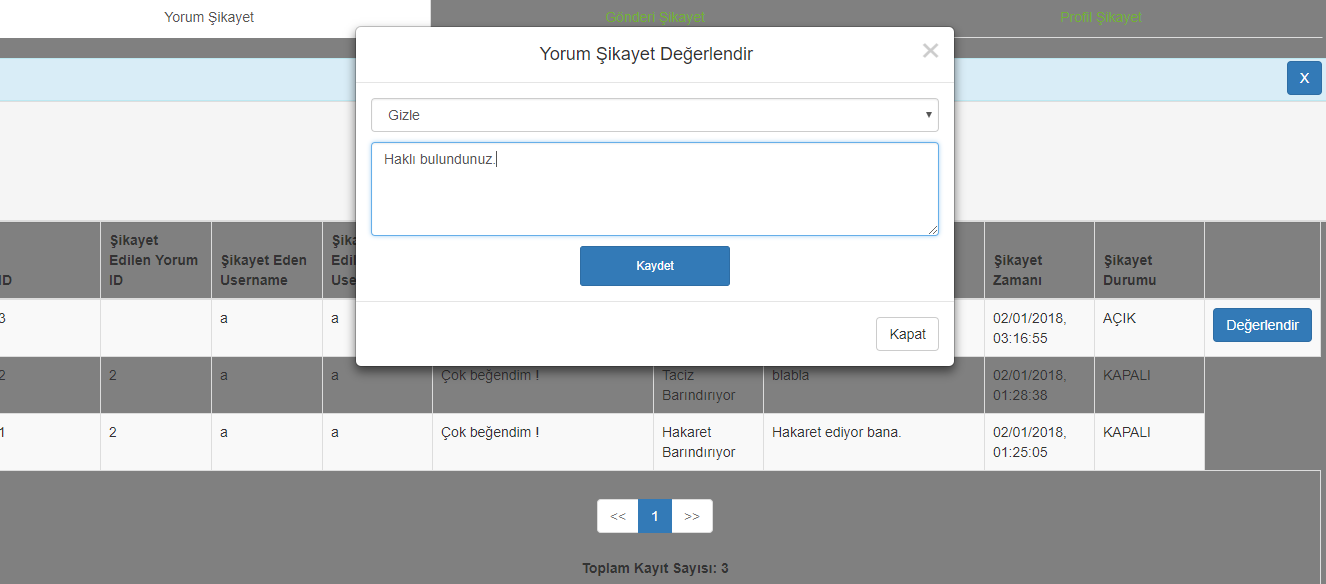
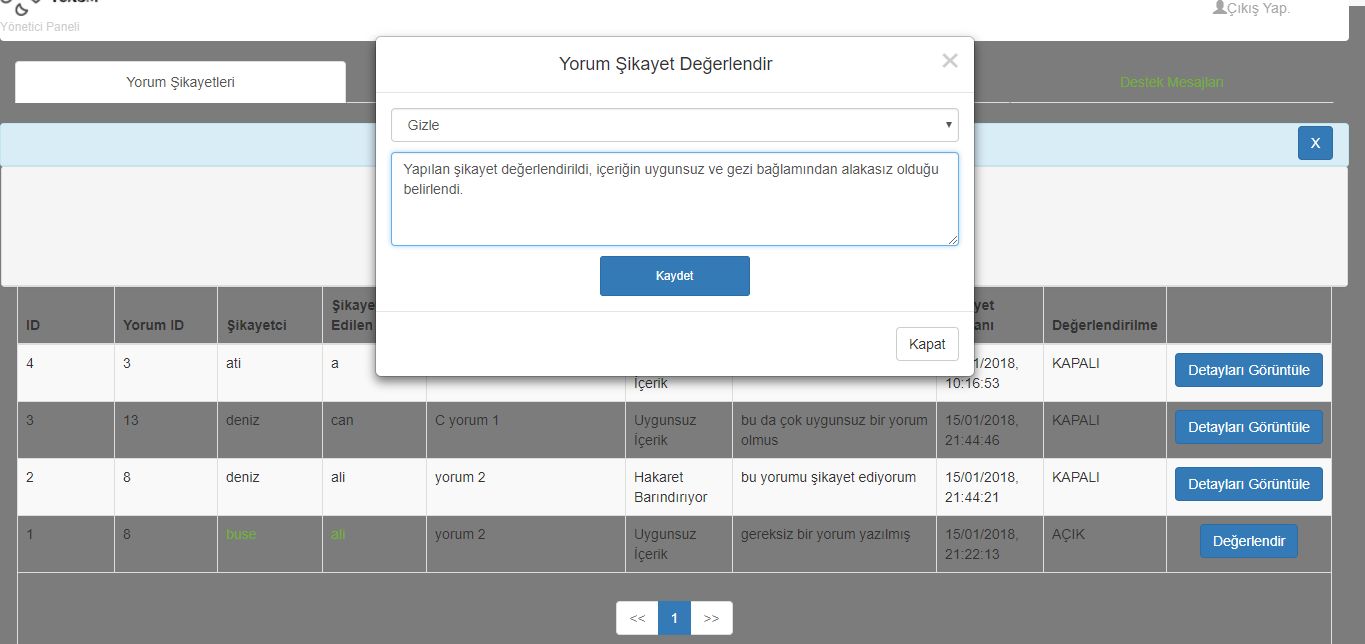
son degisiklikler yapildi

diff --git a/projectChapters/1-chapter.tex b/projectChapters/1-chapter.tex
@@ -1,5 +1,5 @@
 \chapter{Introduction}
-On this project our purpose is to save navigation data (latitude, longitude, altitude, accuracy, speed) collected from GPS of mobile device and show the route of a trip on the map. There will be a mobile application and server side application to provide some features, lets users to share trips, review trips, communicate and socialize with each others. Various media records such as photos, videos and sound recorded from mobile device during the trip will be associated with the route. There will be a team trip option for the trips which includes more than one member. Team trip option lets every team member to see any other team member's location simultaneously if there is an Internet connection. In order to determine travelling method, using the temporal changes of the navigation data taken from the GPS, average and instant speed will be calculated. As result, trip type will be labelled as vehicle trip, walking trip, running trip or cycling trip using calculated speed data. In order to provide interaction between users a social media environment will be designed. People will be able to establish their friendship here. In the news flow, there will be a timeline section. Posts which are shared by friends of users will be shown there. The trips can be liked by other users in the news flow, they can leave a comment on trip or the users can follow trips they like by downloading it on their own mobile device.
+On this project our purpose is to save navigation data (latitude, longitude, altitude, accuracy, speed) collected from GPS of mobile device and show the route of a trip on the map. There will be a mobile application and server side application to provide some features, lets users to share trips, review trips, communicate and socialize with each others. Various media records such as photos, videos and sound recorded from mobile device during the trip will be associated with the route. There will be a team trip option for the trips which includes more than one member. Team trip option lets every team member to see any other team member's location simultaneously if there is an Internet connection. In order to determine travelling method, using the temporal changes of the navigation data taken from the GPS, average and instant speed will be calculated. As result, trip type will be labelled as vehicle trip, walking trip, running trip or cycling trip using calculated speed data. In order to provide interaction between users a social media environment will be designed. People will be able to establish their friendship here. In the news flow, there will be a timeline section. Posts which are shared by friends of users will be shown there. The trips can be liked by other users in the news flow, they can leave a comment on trip or the users can follow trips they like by downloading it on their own mobile device. Users can create complaints about comments, other user profiles and trips. Complaints are evaluated by the system administrators. If admins think that regarding complaint are right, the content can be hidden.
 \section{Literature Review}
 The purpose to realize that project is to simplify planning, recording and sharing traveler's trips. We know that it is not easy to organize photos and media taken on a trip and later on sharing them on any social media or personal blogs. In any marketplaces including play store and appstore there are lots of applications for tracking and planning travel but most of them only saves location data and do not include media or user notes. There are only a few remarkable application which saves location data, media and also provides a social media enviroment. However there is no application that provides trip tracking, organizing media, following other person's route, sharing memories and also doing all of these with friends at the same time. 
 

diff --git a/projectChapters/7-chapter.tex b/projectChapters/7-chapter.tex
@@ -30,89 +30,28 @@ Server's idle performance is shown in Figure
 \label{fig:serveridle}
 \end{figure}
 
-\newpage
-
-When server's performance 30 simultaneous GET call is shown Figure
-\ref{fig:30users}.
-
-\begin{figure}[!htbp]
-\centering
-\includegraphics[width=\textwidth]{projectChapters/images/30users1.png}
-\caption{Server 30 GET HTTP calls simultaneously}
-\label{fig:30users}
-\end{figure}
-
-\begin{figure}[!htbp]
-\centering
-\includegraphics[width=\textwidth]{projectChapters/images/30users2.png}
-\caption{Server 30 GET HTTP calls simultaneously}
-\label{fig:30users}
-\end{figure}
-
-\newpage
-
-When server's performance 100 simultaneous GET call is shown Figure
-\ref{fig:100users}.
-
-\begin{figure}[!htbp]
-\centering
-\includegraphics[width=\textwidth]{projectChapters/images/100users1.png}
-\caption{Server 100 GET HTTP calls simultaneously}
-\label{fig:100users}
-\end{figure}
-
-\begin{figure}[!htbp]
-\centering
-\includegraphics[width=\textwidth]{projectChapters/images/100users2.png}
-\caption{Server 100 GET HTTP calls simultaneously}
-\label{fig:100users}
-\end{figure}
-
-\newpage
-
-When server's performance 130 simultaneous GET and POST call is shown Figure
-\ref{fig:130users}.
-
-\begin{figure}[!htbp]
-\centering
-\includegraphics[width=\textwidth]{projectChapters/images/130users1.png}
-\caption{Server 130 GET and POST HTTP calls simultaneously}
-\label{fig:130users}
-\end{figure}
-
-\begin{figure}[!htbp]
-\centering
-\includegraphics[width=\textwidth]{projectChapters/images/130users2.png}
-\caption{Server 130 GET and POST HTTP calls simultaneously}
-\label{fig:130users}
-\end{figure}
-
-\newpage
-
-
-When server's performance 180 simultaneous GET and two POST call is shown Figure
-\ref{fig:180user}.
-
-\begin{figure}[!htbp]
-\centering
-\includegraphics[width=\textwidth]{projectChapters/images/180users1.png}
-\caption{Server 180 GET and two POST HTTP calls simultaneously}
-\label{fig:180user}
-\end{figure}
-
-\begin{figure}[!htbp]
-\centering
-\includegraphics[width=\textwidth]{projectChapters/images/180users2.png}
-\caption{Server 180 GET and two POST HTTP calls simultaneously}
-\label{fig:180user}
-\end{figure}
-
-
-\newpage
- 
 \subsection{Result}
 
-As we seen the results above, the server can handle up to 200 simultaneously HTTP calls, its bottleneck is its CPU power, because maximum RAM usage 20 percent even the highest limit of calls. If we assume that average HTTP calls per web page is 20, (the number can vary depending upon the demand of the user) as a result, if server can handle 200 simultaneous calls and user makes 20 calls per page we can say the average number of users that our server can handle is 10.
+
+
+
+As we seen the results below, the server can handle up to 200 simultaneously HTTP calls, its bottleneck is its CPU power, because maximum RAM usage 20 percent even the highest limit of calls. If we assume that average HTTP calls per web page is 20, (the number can vary depending upon the demand of the user) as a result, if server can handle 200 simultaneous calls and user makes 20 calls per page we can say the average number of users that our server can handle is 10.
+
+\begin{table}[!ht]
+\centering
+\caption{Server performance test results}
+\label{my-label}
+\begin{tabular}{|l|l|l|}
+\hline
+\textbf{HTTP Calls}                & \textbf{Maximum Memory Usage(\%)} & \textbf{Maximum CPU Usage(\%)} \\ \hline
+30 GET Requests           & 15.2                     & 18.1  \\ \hline
+100 GET Requests          & 15.2                     & 56.6  \\ \hline
+130 GET and POST Requests & 15                       & 68.8  \\ \hline
+180 GET and POST Requests & 15                       & 89.4  \\ \hline
+\end{tabular}
+\end{table}
+
+\newpage
 
 Comparison between HTTP calls and the result outputs of error rate, throughput, Received KB/sec, Sent KB/sec, Avg Bytes are shown in Figure
 

diff --git a/projectChapters/6-chapter.tex b/projectChapters/6-chapter.tex
@@ -24,7 +24,7 @@ Users can register from register page by typing their personal information. It i
 \label{fig:registerWeb}
 \end{figure}
 
-Users can validate their account by redirecting the address that has been sent to them via our SMTP. It is shown in figure  \ref{fig:registerWeb}. 
+Users must validate their account by redirecting the address that has been sent to them which provided by e-mail. It is shown in figure  \ref{fig:registerWeb}. 
 
 \begin{figure}[!htbp]
 \centering
@@ -44,13 +44,13 @@ Users can change their account's password by clicking on the forgot password sec
 \label{fig:registerWeb}
 \end{figure}
 
-Users can access to the developers by using support page, and can read the privacy principles for the permission they are going to give site owners about their usage. It is shown in figure  \ref{fig:supportWeb}. 
+Users can read the privacy principles for the permission they are going to give site owners about their usage. It is shown in figure  \ref{fig:privacyWeb}. 
 
 \begin{figure}[!htbp]
 \centering
-\includegraphics[width=\textwidth]{projectChapters/images/supportPage.png}
-\caption{Support screen for users}
-\label{fig:supportWeb}
+\includegraphics[width=\textwidth]{projectChapters/images/privacyPage.png}
+\caption{Privacy information screen for users}
+\label{fig:privacyWeb}
 \end{figure}
 
 \newpage
@@ -150,12 +150,12 @@ Users can search trips, users from the search page they can also filter the sear
 
 \newpage
 
-We have administrators management page. In this page administrators can see complaints related with users, trips and comments that are created by users. They can see, search, evaluate and list them with this screen which is shown in Figure \ref{fig:admin1}.
+We have administrators management page. In this page administrators can see complaints related with users, trips and comments that are created by users. They can see, search, evaluate and list them with this screen which is shown in Figure \ref{fig:admin0}.
 \begin{figure}[!htbp]
 \centering
-\includegraphics[width=\textwidth]{projectChapters/images/admin1.png}
+\includegraphics[width=\textwidth]{projectChapters/images/admin0.png}
 \caption{Administrator page}
-\label{fig:admin1}
+\label{fig:admin0}
 \end{figure}
 
 Administrators can decide whether the content is going to be hidden or not, we have a screen to decide hide the content or not, which is shown in Figure  \ref{fig:admin2}.

diff --git a/projectChapters/3-chapter.tex b/projectChapters/3-chapter.tex
@@ -138,11 +138,11 @@ Minimum System Configuration & \hfill 1.6 & \hfill 5632 & \hfill 17.5 \\ \hline
 Linux OS \cite{linuxMinimumSystemRequirements} & \hfill 1 & \hfill 512 & \hfill 8 \\ \hline
 Eclipse \cite{eclipse} & \hfill 1.5 & \hfill 1024  & \hfill 1  \\ \hline
 MySQL \cite{mysql} & \hfill 1 (2 core) & \hfill 2048 & \hfill 0.8 \\ \hline
-MySQL Workbench\cite{mysql} & \hfill unknown & \hfill 4096 & \hfill 0.2 \\ \hline
-Apache Tomcat\cite{mysql} & \hfill unknown & \hfill 4096 & \hfill 0.2 \\ \hline
-JMeter\cite{mysql} & \hfill unknown & \hfill 4096 & \hfill 0.2 \\ \hline
-htop\cite{mysql} & \hfill unknown & \hfill 4096 & \hfill 0.2 \\ \hline
-Minimum System Configuration & \hfill 1.5 (2 core) & \hfill 7168 & \hfill 10 \\ \hline
+MySQL Workbench\cite{mySQLWorkTanim} & \hfill 1 & \hfill 1024 & \hfill 0.2 \\ \hline
+Apache Tomcat\cite{TomcatTanim} & \hfill 1 & \hfill 512 & \hfill 0.1 \\ \hline
+JMeter\cite{JMeterTanim} & \hfill 1.2 & \hfill 512 & \hfill 0.2 \\ \hline
+htop\cite{htopTanim} & \hfill 1 & \hfill 512 & \hfill 0.1 \\ \hline
+Minimum System Configuration & \hfill 1.5 (2 core) & \hfill 8704 & \hfill 10.4 \\ \hline
 \end{tabular}
 \end{table}
 
@@ -253,7 +253,7 @@ The resource chart for this project shown in ~\ref{fig:resource}.
 \section{Legitimate Feasibility}
 Software which is used within the project does not face any legal issues. All of the
 software used in the project contain license requirements. Users are responsible for
-all shared content so any misusing of any sharing content is their risk. Sharing and publishing content is on their own risk.
+all shared content so any misusing of any sharing content is their risk. Sharing and publishing content is on their own risk, but if the users think that a profile, trip or comment has inappropriate content, they can create complaints about that. System administrators are in charge of assessing complaints. Admins can hide that specific content if they think it is inappropriate. Content that violates the user's personal rights will be blocked by this mechanism.
 
 \newpage
 \section{Time Feasibility}

diff --git a/projectChapters/5-chapter.tex b/projectChapters/5-chapter.tex
@@ -47,6 +47,8 @@ Mobile Application database design shown in Figure \ref{fig:mobileApplicationDat
 \label{fig:serverDatabase}
 \end{figure}
 
+Database designs of two different development side can be different in some aspects, the main reason of that server side also includes a social media platform which has more detailed information about users and the shared content. 
+
 \newpage
 
 \section{Modules}
